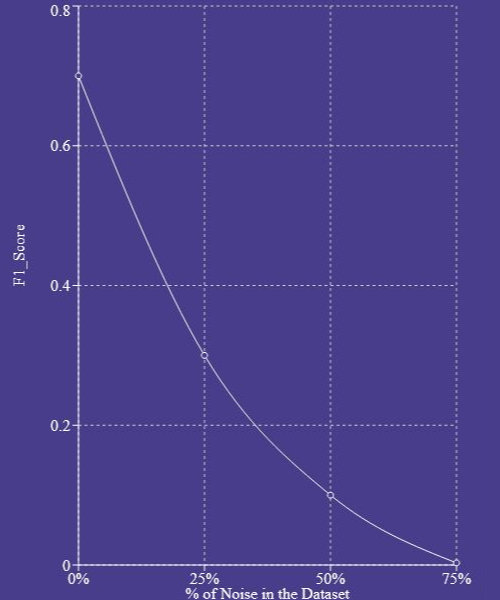
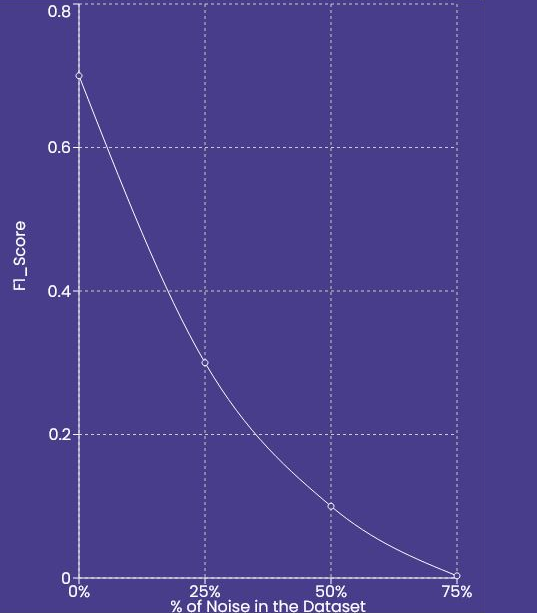
Updated global font to Poppins

diff --git a/src/App.css b/src/App.css
@@ -1,3 +1,5 @@
+@import url('https://fonts.googleapis.com/css2?family=Poppins:ital,wght@0,100;0,200;0,300;0,400;0,500;0,600;0,700;0,800;0,900;1,100;1,200;1,300;1,400;1,500;1,600;1,700;1,800;1,900&display=swap');
+
 .Dashboard {
   text-align: center;
   display: grid;
@@ -21,6 +23,7 @@ html, body {
   width: 100vw;
   overflow: hidden;
   background-color: #483d8b;
+  font-family: Poppins, sans-serif;
 }
 
 .graph-containter {
@@ -101,13 +104,18 @@ html, body {
 }
 
 .sidebar h2 {
-  margin-top: 0;
+  font-size: 20px;
+}
+
+.sidebar h3 {
+  font-size: 15px;
 }
 
 .sidebar ul {
   list-style: none;
   margin: 0;
   padding: 0;
+  font-size: 13px;
 }
 
 .sidebar li {
@@ -122,6 +130,8 @@ html, body {
 
 .sidebarTitle {
   text-decoration: underline;
+  font-size: 13px;
+  margin-bottom: 10px;
 }
 
 .sidebarMainTitle {
@@ -133,6 +143,8 @@ html, body {
 
 .sidebarWeight {
   margin-bottom: 0;
+  font-size: 13px;
+  margin-top: 10px;
 }
 
 .sideBtn {
@@ -154,6 +166,7 @@ html, body {
   font-family: inherit;
   font-size: inherit; 
   margin: 0;
+  font-size: 13px;
 }
 
 select {
@@ -169,6 +182,7 @@ select {
   cursor: pointer;
   font-family: inherit;
   font-size: inherit; 
+  font-size: 13px;
 }
 
 select:hover {
@@ -187,7 +201,7 @@ select:hover {
 .detailName {
   margin: 0;
   padding: 60px;
-  padding-top: 200px;
+  padding-top: 70px;
 }
 
 .detailNameImg {
@@ -198,11 +212,13 @@ select:hover {
 .detailImage {
   padding: 5px;
   border-radius: 0.25rem;
+  width: 20%;
 }
 
 .detailFormula {
   margin: 0 auto;
   margin-top: -40px;
+  margin-bottom: 20px;
   padding: 5px;
   border-radius: 0.25rem;
   background-color: #574c9a;
@@ -226,14 +242,21 @@ select:hover {
 .details li {
   padding: 0.5rem 1rem;
   border-radius: 5px;
+  background-color: #6558a8;
+  margin: 0 auto;
+  margin-top: 10px;
+  width: 35%;
 }
 
 .detailDescrip {
-  width: 56%;
+  width: 53%;
   margin: 0 auto;
+  margin-top: -10px;
   padding: 5px;
   border-radius: 0.25rem;
   padding: 30px;
+  text-align: justify;
+  line-height: 30px;
 }
 
 .detailBack {

diff --git a/src/components/SideBar.tsx b/src/components/SideBar.tsx
@@ -22,7 +22,7 @@ export const SideBar = ({
 
   return (
     <div className="sidebar">
-      <h3 className="sidebarMainTitle">External Factor Evaluation Framework</h3>
+      <h2 className="sidebarMainTitle">External Factor Evaluation Framework</h2>
       <h3>Select Weights</h3>
       <h4 className="sidebarWeight">External Factor Weight</h4>
       <select value={extWeight} onChange={handleExtWeightChange}>
